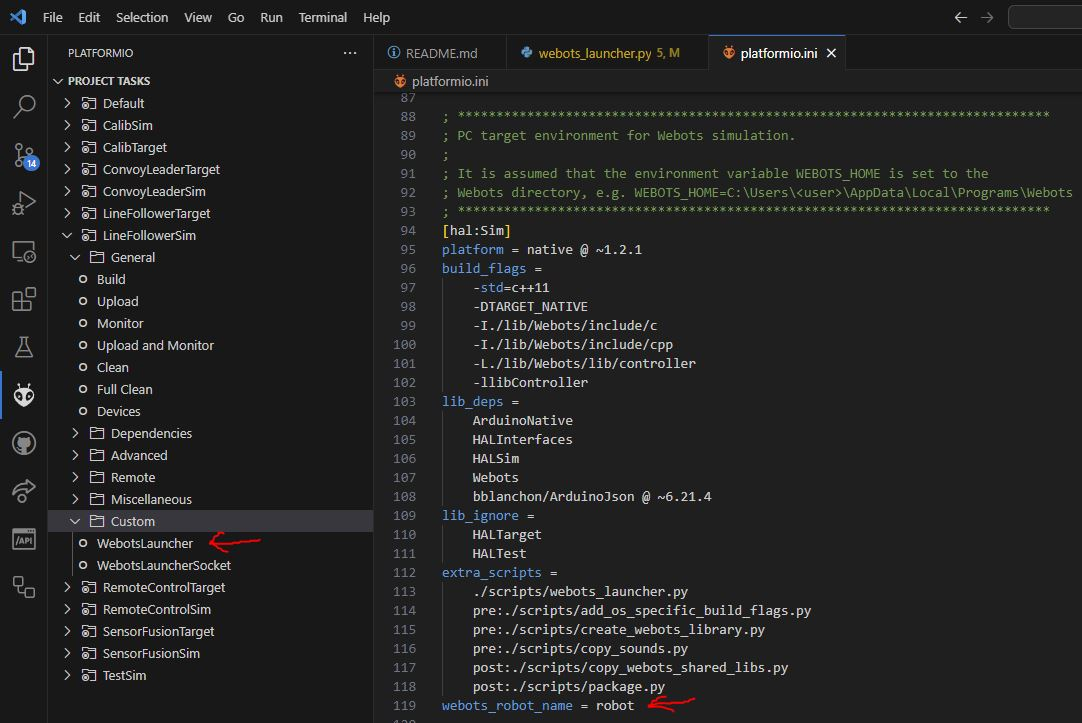
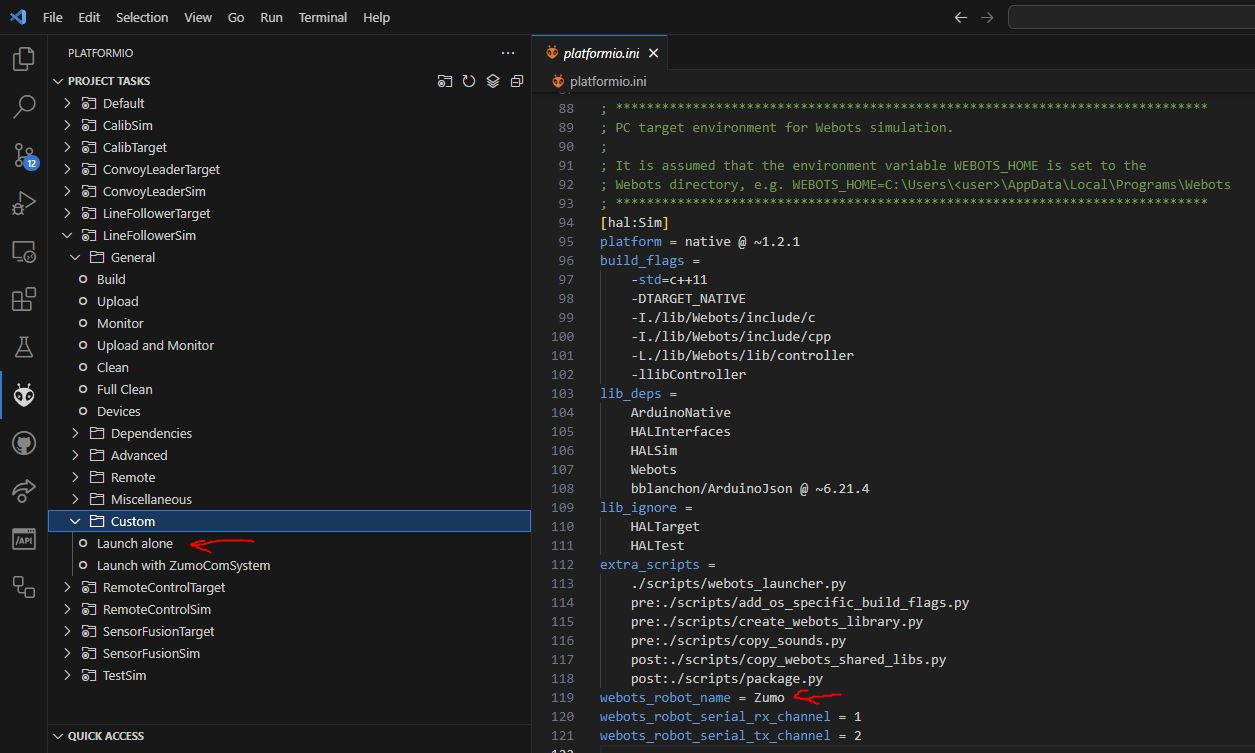
Description for Webots serial communication to ZumoComSystem updated.

diff --git a/README.md b/README.md
@@ -123,21 +123,16 @@ Example for **LineFollowerSim** application:
 2. Now the keyboard keys a, b and c can be used to control the robot according to the implemented application logic.
 
 ## Communicate with the DroidControlShip
-For the communication with the DroidControlShip a socket server needs to be enabled, which is disabled by default.
+The communication with the DroidControlShip goes via a Webots serial connection, which is disabled by default.
 
-Use the -s flag to enable it with default port 65432. Note, this will disable the standard logging, because the serial communication will automatically be routed over the socket. The SerialMuxProt protocol is used to exchange data in both directions.
+Use the -c flag to enable it with default channels (see _webots_robot_serial_rx_channel_ and _webots_robot_serial_tx_channel_ in [platformio.ini](./platformio.ini)). Note, this will disable the standard logging, because the serial communication uses the SerialMuxProt procotol for data interchange.
 ```bash
-$ program.exe -s
+$ program.exe -c
 ```
 
-The port can be changed via command line parameters, please use -? to get more details.
-```bash
-$ program.exe -?
-```
+For simplicity a Platformio project task was added, which enables the Webots serial connection as well.
 
-For simplicity a Platformio project task was added, which start the socket server as well.
-
-![Example](./doc/images/pio_webots_launcher_socket.jpg)
+![Example](./doc/images/pio_webots_launcher_zumo_com_system.jpg)
 
 # The target
 
@@ -159,7 +154,7 @@ Example for the **LineFollowerTarget** application:
 | Calib | Application used for motor speed calibration. | Yes | No | ./webots/worlds/LargeTrack.wbt  ./webots/worlds/LineFollowerTrack.wbt |
 | ConvoyLeader | A line follower, providing information to the [DroidControlShip](https://github.com/BlueAndi/DroidControlShip) in a convoy leader role. | No | Yes | ./webots/worlds/GridWithMarkers.wbt  ./webots/worlds/HeadingCalculation.wbt |
 | LineFollower | Just a line follower, using a PID controller. | Yes | No | ./webots/worlds/ETrack.wbt  ./webots/worlds/LargeTrack.wbt  ./webots/worlds/LineFollowerTrack.wbt |
-| RemoteControl | The robot is remote controlled by e.g. the [DroidControlShip](https://github.com/BlueAndi/DroidControlShip) in a convoy follower role. | No | Yes | Any |
+| RemoteControl | The robot is remote controlled by e.g. the [DroidControlShip](https://github.com/BlueAndi/DroidControlShip) in a convoy follower role. | No | Yes | ./webots/world/zumo_with_com_system/* |
 | SensorFusion | The robot provides odometry and inertial data to the [DroidControlShip](https://github.com/BlueAndi/DroidControlShip), which calculates the sensor fusion based location information. | No | Yes | ./webots/worlds/SensorFustion.wbt |
 | Test | Only for testing purposes on native environment. | Yes | No | N/A |
 
